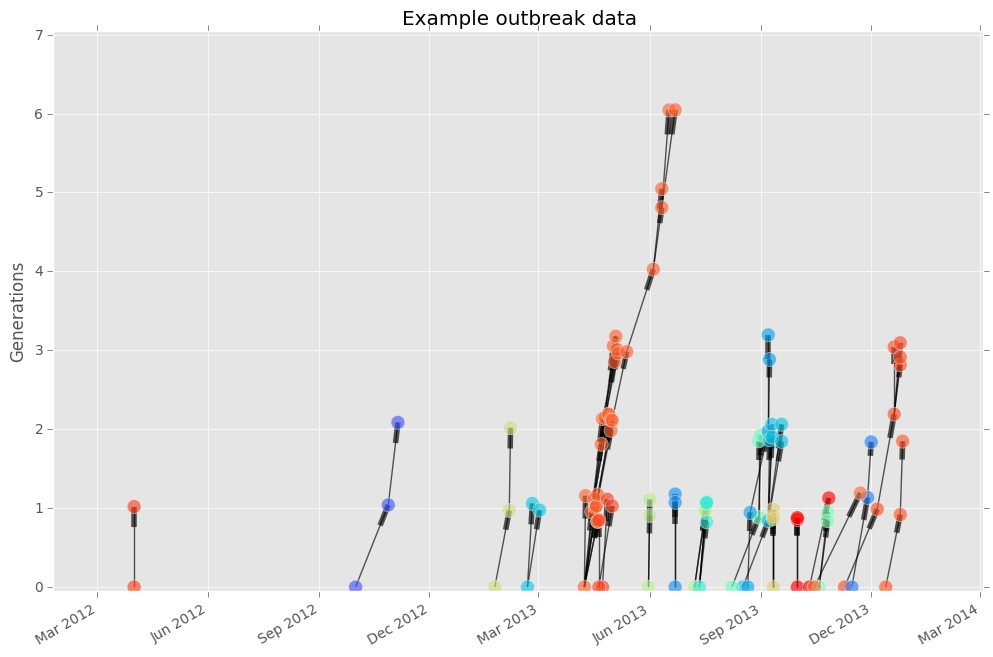
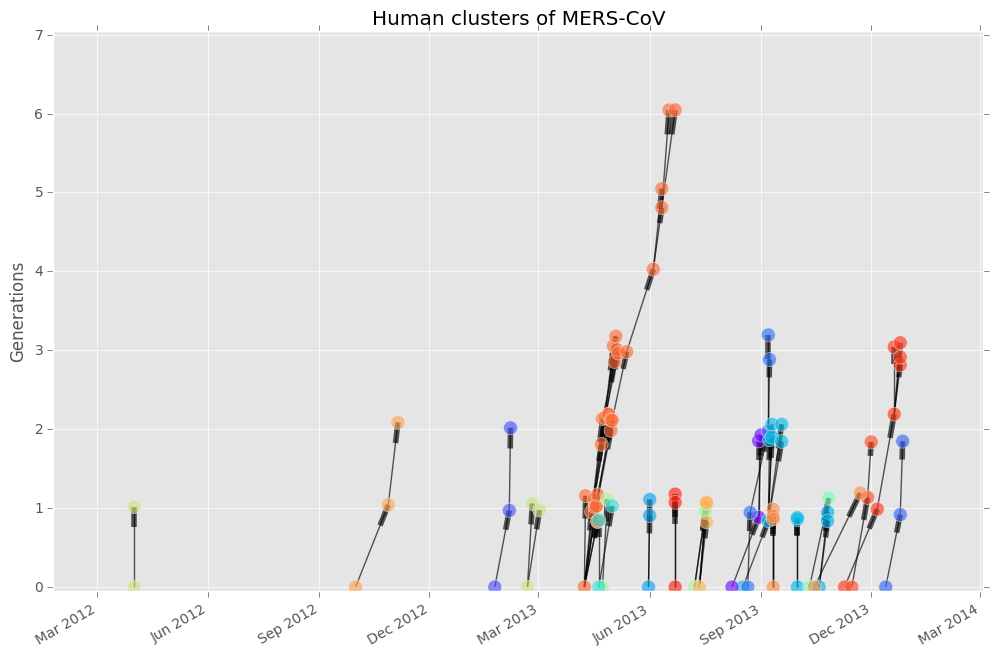
frustrating bug fixes. updated mers line listing with latest info about clusters

diff --git a/docs/examples.py b/docs/examples.py
@@ -83,13 +83,13 @@ mers_clusters = epipy.cluster_builder(mers_df, 'Cluster ID', 'Case #',
 # Case tree plot
 mers_G = epipy.build_graph(mers_clusters, color='Cluster ID')
 fig, ax = epipy.case_tree_plot(mers_G, color='Cluster ID', loc='upper left', legend=False)
-ax.set_title('Example outbreak data')
+ax.set_title('Human clusters of MERS-CoV')
 ax.grid(True)
 fig.savefig(os.path.join(dir, '../figs/mers_casetree.png'), bbox_inches='tight')
 
 # Checkerboard plot
 fig, ax = epipy.checkerboard_plot(mers_df, 'Case #', 'Cluster ID', 'dates')
-ax.set_title("MERS-CoV clusters")
+ax.set_title("Human clusters of MERS-CoV")
 fig.savefig(os.path.join(dir, '../figs/mers_checkerboard.png'), bbox_inches='tight')
 
 #################
